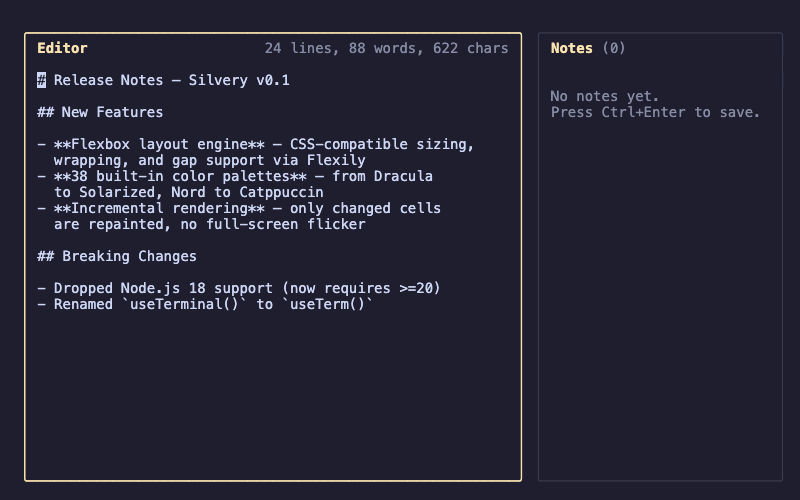
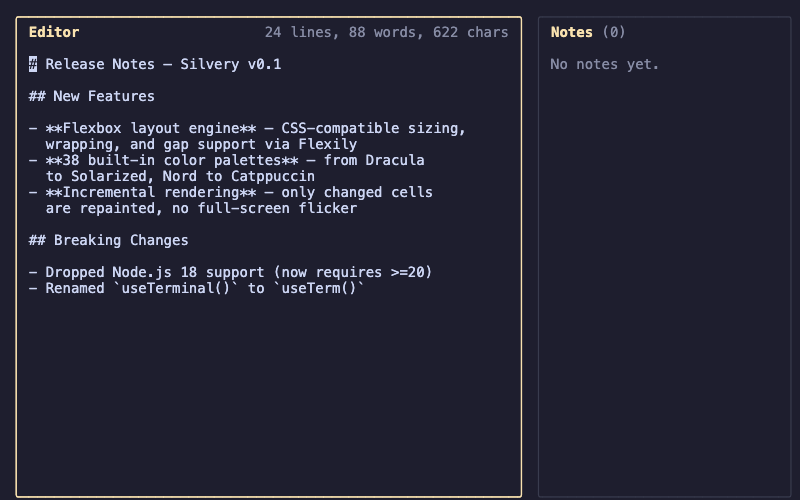
fix: textarea — remove extra blank line in Notes, remove Ctrl+Enter hint, remove outer padding

diff --git a/examples/apps/textarea.tsx b/examples/apps/textarea.tsx
@@ -88,7 +88,7 @@ export function NoteEditor() {
   const words = value.split(/\s+/).filter(Boolean).length
 
   return (
-    <Box flexDirection="column" padding={1} flexGrow={1}>
+    <Box flexDirection="column" flexGrow={1}>
       <Box flexDirection="row" gap={1} flexGrow={1}>
         {/* Main editor */}
         <Box
@@ -131,10 +131,7 @@ export function NoteEditor() {
           <Text> </Text>
           <Box flexDirection="column" paddingX={1} overflow="scroll" flexGrow={1}>
             {notes.length === 0 ? (
-              <Box flexDirection="column" paddingY={1}>
-                <Muted>No notes yet.</Muted>
-                <Muted>Press Ctrl+Enter to save.</Muted>
-              </Box>
+              <Muted>No notes yet.</Muted>
             ) : (
               notes.map((note, i) => (
                 <Box key={i} flexDirection="column" marginBottom={1}>
